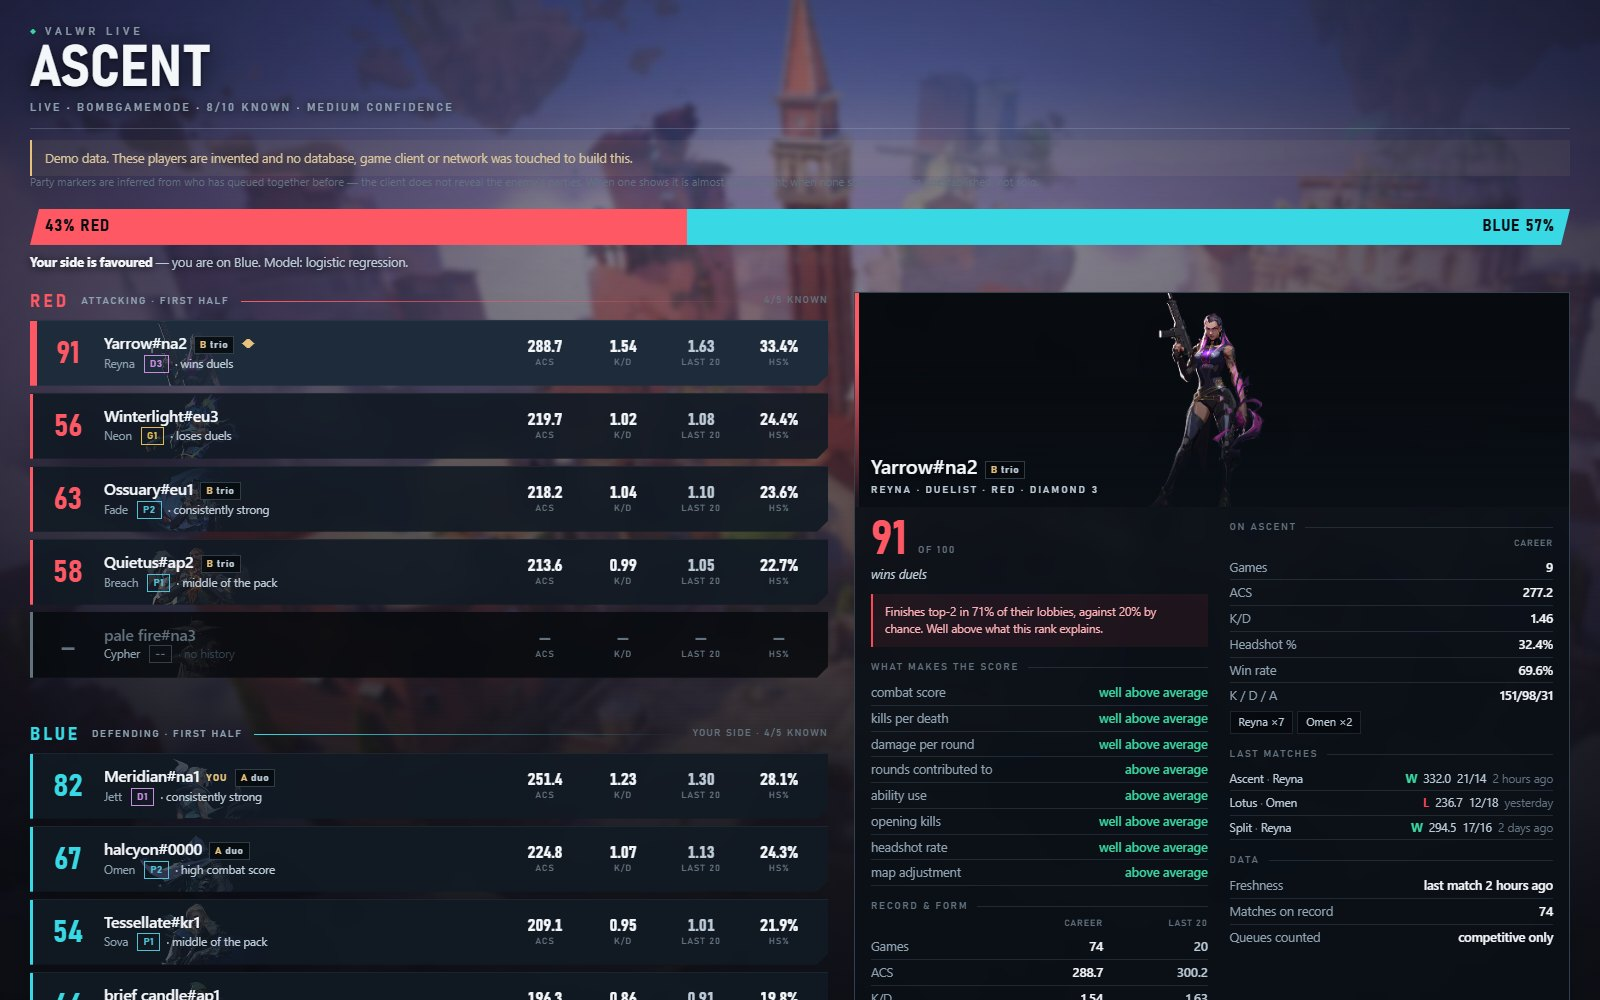
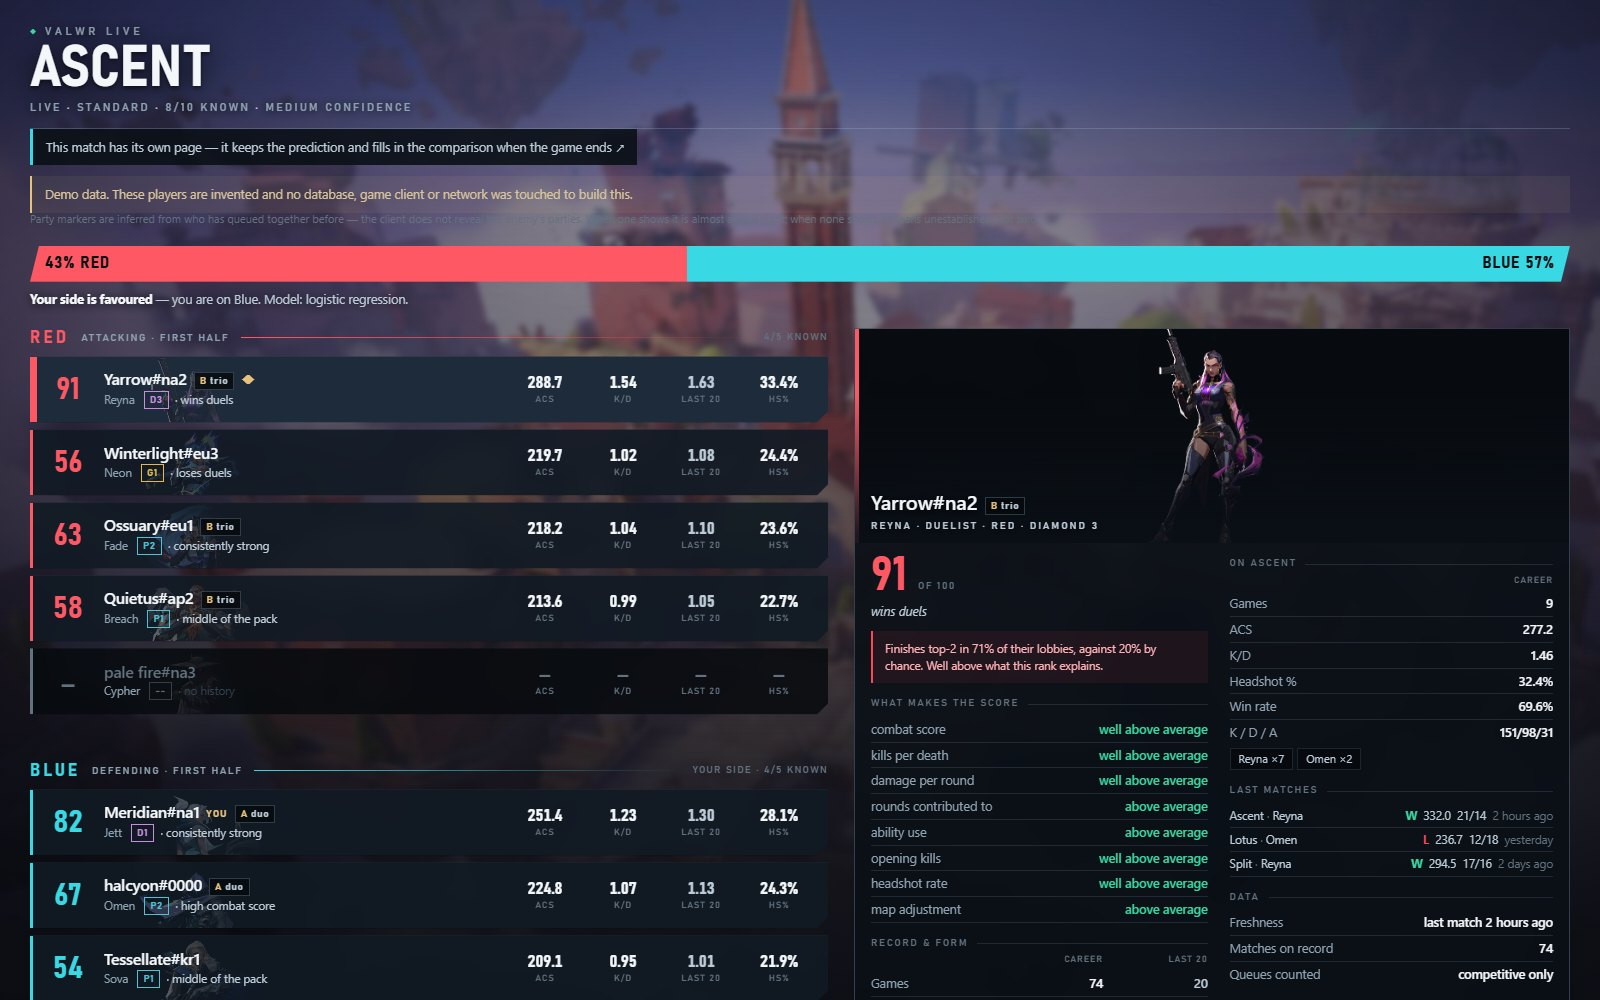
Collect results even with the game closed and no tab open
The comparison never appeared after a real match, and the schedule was only
half the reason. Settling ran inside the websocket handler, so it needed a
browser tab connected -- and the loop gave up before reaching it whenever
VALORANT was not running:

    except st.NotReady:      # the client went away
        ...
        continue             # <- settling lived after this

Finishing a match and quitting the game is the most ordinary thing a player
does, and it was precisely the case where the result was never fetched. Closing
the tab did it too.

Settling is now its own task, started with the app and owning what it needs: it
opens its own database connection and its own API client, so it depends on
neither the live context nor a socket. Verified against this machine with
VALORANT closed and no page open -- a match recorded an hour earlier settled by
itself within a minute.

Two more things that made a saved tab worse than the live one:

  - every image 404'd on it. Artwork was addressed relatively, which resolves
    against /m/<id> and asked the server for /m/agents/...  The one page kept
    specifically to read after the game was the only page with no agent
    portraits and no map behind it. Addressed against the page's own directory
    now, which keeps the Pages demo working under its sub-path -- both cases
    are tested.
  - the header printed "BombGameMode.BombGameMode_C", an identifier the game
    client uses internally, where a reader expects "Standard".
[…]

diff --git a/valwr/dash/static/index.html b/valwr/dash/static/index.html
@@ -510,14 +510,36 @@ function setMapArt(){
   const name = STATE && STATE.map
     ? STATE.map.toLowerCase().replace(/[^a-z0-9]/g, "") : "";
   document.body.style.setProperty("--mapart",
-    name ? `url("maps/${name}-splash.jpg")` : "none");
+    name ? `url("${base()}maps/${name}-splash.jpg")` : "none");
 }
 
-/* Relative, not rooted: the server mounts these beside the page, and the
-   interactive demo on GitHub Pages lives under /valorant-winrate-predictor/,
-   where a rooted "/agents/" would point at a different site entirely. */
+/* Where the artwork sits relative to whatever page is open.
+
+   Rooting these at "/agents/" would break the interactive demo, which lives
+   under /valorant-winrate-predictor/ on GitHub Pages. But plain relative paths
+   broke something worse: a match's own page is served at /m/<id>, one level
+   deeper, so every agent portrait and the map background resolved to
+   /m/agents/... and 404'd. The saved tab -- the one kept specifically to read
+   after the game -- was the only page in the app with no artwork at all. */
+function base(){
+  const pinned = location.pathname.match(/^(.*\/)m\/[^/]*$/);
+  return pinned ? pinned[1] : location.pathname.replace(/[^/]*$/, "");
+}
 const artURL = (p, k) =>
-  p.agent_id ? `agents/${encodeURIComponent(p.agent_id)}-${k}.png` : "";
+  p.agent_id ? `${base()}agents/${encodeURIComponent(p.agent_id)}-${k}.png` : "";
+/* The client reports a mode as "BombGameMode.BombGameMode_C", which is an
+   identifier, not something to print at a reader. */
+function modeLabel(m){
+  if (!m) return "—";
+  const tail = String(m).split("/").pop().split(".").pop()
+    .replace(/_C$/, "").replace(/GameMode$/i, "");
+  const known = {bomb: "Standard", deathmatch: "Deathmatch",
+                 swiftplay: "Swiftplay", spikerush: "Spike rush",
+                 escalation: "Escalation", teamdeathmatch: "Team deathmatch",
+                 hurm: "Team deathmatch", ggteam: "Escalation",
+                 onefa: "Replication", quickbomb: "Spike rush"};
+  return known[tail.toLowerCase()] || (tail || String(m));
+}
 const isAtk = t => t === "Red";
 
 function verdict(p){
@@ -922,7 +944,7 @@ function render(msg){
   $("map").textContent = s.map || "UNKNOWN MAP";
   setMapArt();
   const phase = s.is_custom ? "Custom" : s.phase === "pregame" ? "Agent select" : "Live";
-  $("sub").innerHTML = `${esc(phase)} <b>·</b> ${esc(s.mode || "—")} <b>·</b> ` +
+  $("sub").innerHTML = `${esc(phase)} <b>·</b> ${esc(modeLabel(s.mode))} <b>·</b> ` +
     `${esc(s.coverage)}/10 known <b>·</b> ${esc(s.confidence)} confidence`;
 
   indexParties(s);

diff --git a/valwr/dash/server.py b/valwr/dash/server.py
@@ -400,11 +400,66 @@ def poll_and_record(ctx) -> dict | None:
     return state
 
 
+SETTLE_EVERY_SECONDS = 60
+
+
+def settle_tick(no_fetch: bool = False) -> dict[str, int]:
+    """One pass at collecting results, owning everything it needs.
+
+    Deliberately independent of the live context. Settling used to run inside
+    the websocket loop, which meant it required both a browser tab to be open
+    AND the game to be running -- and when the game was closed the loop gave up
+    before it ever reached this step. Finishing a match and quitting VALORANT
+    is the most ordinary thing a player does, and it was the one case where the
+    result was never fetched.
+    """
+    from valwr import config
+    from valwr.collect.client import HenrikClient
+    from valwr.collect.limiter import TokenBucket
+    from valwr.store import schema
+    s = config.load(require_key=False)
+    conn = schema.connect(s.database_path)
+    client = None
+    try:
+        if not no_fetch:
+            try:
+                full = config.load()
+                client = HenrikClient(full.henrik_api_key, conn=conn,
+                                      limiter=TokenBucket(full.requests_per_minute))
+            except Exception:                        # noqa: BLE001
+                client = None        # no key: the crawler's own matches still settle
+        return outcomes.settle_pending(conn, client, s.region)
+    finally:
+        if client is not None:
+            client.close()
+        conn.close()
+
+
 def build_app(no_fetch: bool = False, deadline: float = st.DEFAULT_DEADLINE,
               demo: bool = False, match: str | None = None):
+    async def settling(_app):
+        """Collect results forever, whatever else the dashboard is doing."""
+        loop = asyncio.get_running_loop()
+        while True:
+            try:
+                got = await loop.run_in_executor(None, settle_tick, no_fetch)
+                if got.get("settled"):
+                    print(f"  scored {got['settled']} finished match(es); "
+                          f"their comparisons are ready.")
+            except asyncio.CancelledError:
+                raise
+            except Exception as e:                   # noqa: BLE001
+                print(f"  could not collect results this time ({e}).")
+            await asyncio.sleep(SETTLE_EVERY_SECONDS)
+
     @asynccontextmanager
     async def lifespan(_app):
+        task = None
+        if not (demo or match):
+            task = asyncio.create_task(settling(_app))
         yield
+        if task is not None:
+            task.cancel()
         _app.state.pool.shutdown(wait=False, cancel_futures=True)
 
     app = FastAPI(title="valwr live", docs_url=None, redoc_url=None,
@@ -589,14 +644,6 @@ def build_app(no_fetch: bool = False, deadline: float = st.DEFAULT_DEADLINE,
                 # Any failure is reported to the page rather than closing the
                 # socket: a dropped connection renders as "disconnected" with
                 # no cause, which is the least useful thing it could say.
-                # Results for matches that have since finished. Once a
-                # minute, and one API call per match at most.
-                if time.time() - app.state.settled_at > 60:
-                    app.state.settled_at = time.time()
-                    await loop.run_in_executor(
-                        pool, outcomes.settle_pending, ctx.conn, ctx.client,
-                        ctx.settings.region)
-
                 try:
                     state = await loop.run_in_executor(pool, poll_and_record, ctx)
                 except st.NotReady as e:
@@ -617,6 +664,15 @@ def build_app(no_fetch: bool = False, deadline: float = st.DEFAULT_DEADLINE,
                     await asyncio.sleep(POLL_SECONDS)
                     continue
                 if state is None:
+                    # The client just left a match: that is the moment it
+                    # ended, and the only signal this side has for it. Asking
+                    # now saves the player watching "waiting for the result"
+                    # while a schedule anchored on the loading screen catches
+                    # up.
+                    if last is not None:
+                        await loop.run_in_executor(
+                            pool, outcomes.match_ended, ctx.conn, ctx.client,
+                            ctx.settings.region, last)
                     # Between matches, hand over the ones already recorded.
                     # Without this the page says "waiting for a match" and the
                     # game just played is unreachable unless the tab the server

diff --git a/test/test_live.py b/test/test_live.py
@@ -1227,3 +1227,50 @@ def test_a_browser_that_will_not_open_cannot_take_down_the_live_view(monkeypatch
     monkeypatch.setattr(S.webbrowser, "open", lambda url: opened.append(url) or True)
     assert S.open_match_tab("http://127.0.0.1:8787/", "m2") is True
     assert opened == ["http://127.0.0.1:8787/m/m2"]
+
+
+def test_results_are_collected_without_a_browser_or_the_game(monkeypatch):
+    """Settling must not depend on a websocket or on VALORANT running.
+
+    It used to live inside the websocket loop, which needed a tab open, and the
+    loop gave up before reaching it whenever the game was closed. Finishing a
+    match and quitting the game is the most ordinary thing a player does, and
+    it was exactly the case where the result was never fetched: the prediction
+    sat unsettled and the comparison never appeared.
+    """
+    import time as _time
+
+    from fastapi.testclient import TestClient
+
+    from valwr.dash import server as DS
+
+    calls = []
+    monkeypatch.setattr(DS, "settle_tick",
+                        lambda no_fetch=False: (calls.append(no_fetch),
+                                                {"settled": 0})[1])
+    monkeypatch.setattr(DS, "SETTLE_EVERY_SECONDS", 0.02)
+    # No websocket is ever opened, and no live context exists.
+    with TestClient(DS.build_app(no_fetch=True)):
+        for _ in range(100):
+            if calls:
+                break
+            _time.sleep(0.02)
+    assert calls, "nothing collected results with no tab open"
+    assert calls[0] is True, "the no-fetch flag has to reach it"
+
+
+def test_the_demo_never_collects_results(monkeypatch):
+    """The demo touches no database, so it must not start a settler either."""
+    import time as _time
+
+    from fastapi.testclient import TestClient
+
+    from valwr.dash import server as DS
+
+    calls = []
+    monkeypatch.setattr(DS, "settle_tick",
+                        lambda no_fetch=False: calls.append(1))
+    monkeypatch.setattr(DS, "SETTLE_EVERY_SECONDS", 0.02)
+    with TestClient(DS.build_app(demo=True)):
+        _time.sleep(0.15)
+    assert calls == []

diff --git a/test/test_outcomes.py b/test/test_outcomes.py
@@ -542,3 +542,28 @@ def test_unstick_does_not_touch_settled_matches(conn):
     _ingest(conn, finished())
     outcomes.settle(conn, FakeAPI(finished()), "na", "m1", now=9000)
     assert outcomes.unstick(conn, now=10 ** 9) == 0
+
+
+def test_the_client_leaving_a_match_asks_for_the_result_at_once(conn):
+    """The backoff is anchored on the loading screen, so waiting for it means
+    sitting through the rest of the game before the first attempt."""
+    outcomes.record(conn, state(), now=1000)
+    conn.execute("UPDATE live_predictions SET attempts = 3")
+    conn.commit()
+    _ingest(conn, finished(winner="Blue"))
+
+    assert outcomes.match_ended(conn, None, "na", "m1", now=3000) == "settled"
+    row = conn.execute("SELECT * FROM live_predictions").fetchone()
+    assert row["settled_at"] == 3000 and row["own_won"] == 1
+
+
+def test_a_match_that_ended_but_is_not_published_keeps_its_place(conn):
+    """One immediate attempt, then the ordinary schedule -- from now rather
+    than from the loading screen."""
+    outcomes.record(conn, state(), now=1000)
+    conn.execute("UPDATE live_predictions SET attempts = 9")
+    conn.commit()
+    assert outcomes.match_ended(conn, FakeAPI(None), "na", "m1", now=3000) == "error"
+    row = conn.execute("SELECT * FROM live_predictions").fetchone()
+    assert row["attempts"] == 1, "the spent budget is given back, then one used"
+    assert row["settled_at"] is None

diff --git a/valwr/live/outcomes.py b/valwr/live/outcomes.py
@@ -210,6 +210,23 @@ def settle(conn: sqlite3.Connection, client, region: str, match_id: str,
     return "settled"
 
 
+def match_ended(conn: sqlite3.Connection, client, region: str, match_id: str,
+                now: int | None = None) -> str:
+    """The live client has left this match, so ask for its result now.
+
+    The backoff is anchored on when a prediction was RECORDED, which is when
+    the match loaded. Waiting for it means sitting through the rest of the game
+    before the first attempt -- the player is back at the menu watching a page
+    that says "waiting for the result" for another ten minutes. The client
+    dropping out of the match is the one signal that says it is over, so it is
+    worth one immediate attempt and a fresh schedule from here.
+    """
+    conn.execute("UPDATE live_predictions SET attempts = 0 "
+                 "WHERE match_id = ? AND settled_at IS NULL", (match_id,))
+    conn.commit()
+    return settle(conn, client, region, match_id, now)
+
+
 def unstick(conn: sqlite3.Connection, now: int | None = None) -> int:
     """Give back the attempts the old schedule burned. Returns how many.
 

diff --git a/test/test_dashboard_page.py b/test/test_dashboard_page.py
@@ -111,8 +111,10 @@ def test_the_background_is_named_from_the_map():
     fn = page[page.index("function setMapArt"):]
     fn = fn[:fn.index("function verdict")]
     assert 'toLowerCase().replace(/[^a-z0-9]/g, "")' in fn
-    # Relative, so the same page works under the GitHub Pages sub-path.
-    assert 'url("maps/${name}-splash.jpg")' in fn
+    # Addressed from the directory the page is served from. A bare relative
+    # path 404s on a match's own page at /m/<id>; a rooted one breaks the demo
+    # under the GitHub Pages sub-path.
+    assert 'url("${base()}maps/${name}-splash.jpg")' in fn
     assert '"none"' in fn, "a map with no art must resolve to none, not a 404"
 
 
